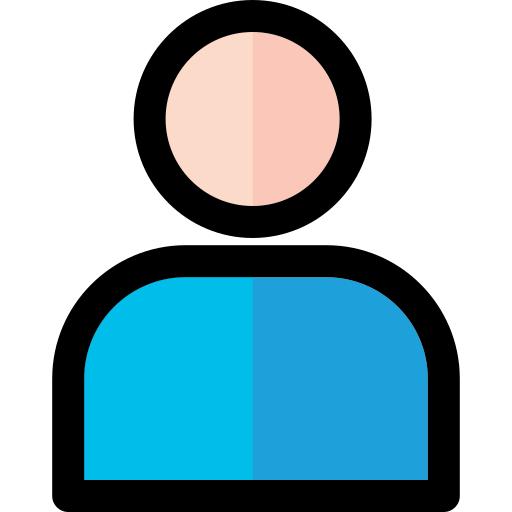
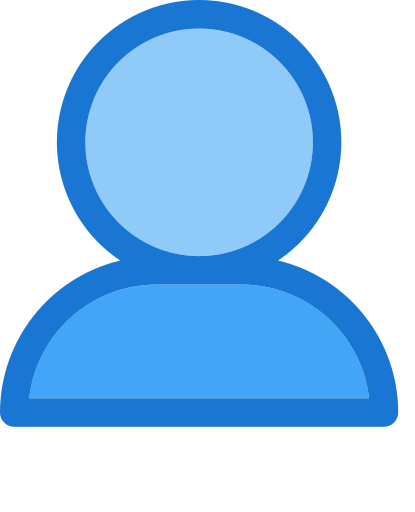
details

diff --git a/src/components/Lists/ListUsers.vue b/src/components/Lists/ListUsers.vue
@@ -9,13 +9,12 @@
             placeholder="Buscar por nombre o cédula" />
         </div>
 
-        <div class="row">
           <div class="col-md-12">
             <button @click="addUser" class="btn btn-success">
               Agregar usuario
             </button>
           </div>
-        </div>
+        
 
         <div class="table-responsive">
           <table class="table table-striped">
@@ -41,9 +40,6 @@
                 </td>
                 <td>{{ user.email }}</td>
                 <td>
-                  <button @click="viewUser(user)" class="btn btn-primary">
-                    Ver usuario
-                  </button>
                   <button @click="deactivateUser(user)" class="btn btn-danger">
                     {{ user.status === "active" ? "Desactivar" : "Activar" }}
                   </button>
@@ -100,10 +96,6 @@ export default {
       // Lógica para agregar un nuevo usuario
       this.$router.push({ name: "AddUser" });
     },
-    viewUser(/*user*/) {
-      // Lógica para ver los detalles de un usuario
-      // ...
-    },
     deactivateUser(user) {
       // Lógica para desactivar un usuario
       if (user.status === "active") {
@@ -125,7 +117,7 @@ export default {
               })
               .then((response) => {
                 toast.success(`Usuario desactivado correctamente`, {
-                  position: 'bottom-right',
+                  position: 'top-right',
                   timeout: 2000,
                   closeOnClick: true,
                   pauseOnFocusLoss: true,
@@ -164,7 +156,7 @@ export default {
               })
               .then((response) => {
                 toast.success(`Usuario activado correctamente`, {
-                  position: 'bottom-right',
+                  position: 'top-right',
                   timeout: 2000,
                   closeOnClick: true,
                   pauseOnFocusLoss: true,
@@ -188,7 +180,7 @@ export default {
     },
   },
   mounted() {
-    this.$state.navbarTitle = "Lista de Usuarios";
+    this.$state.navbarTitle = "Lista de usuarios";
     // Obtener todos los usuarios desde la API
     axios
       .get(API_URL + "/users")

diff --git a/src/components/Home/Home-component.vue b/src/components/Home/Home-component.vue
@@ -52,9 +52,9 @@
       <div class="col-lg-12">
         <div class="card">
           <div class="card-body">
-            <h4 class="card-title text-primary">Lista de los últimos movimientos realizados en el inventario</h4>
+            <h4 class="card-title text-primary text-center">Últimos movimientos realizados en el inventario</h4>
             <div class="table-responsive">
-              <table class="table table-bordered">
+              <table class="table table-bordered kpi-table">
                 <thead>
                   <tr>
                     <th>Fecha de movimiento</th>
@@ -200,9 +200,14 @@ export default {
     },
     hacerEntrada(index) {
       // Lógica para realizar una entrada en el producto seleccionado
-      // Puedes implementar aquí tu código para hacer las modificaciones necesarias en el stock del producto
-      // Por ejemplo, puedes usar una llamada a una API o actualizar los datos localmente
-      console.log('Haciendo entrada para el producto con índice:', index);
+      // Implementar aquí tu código para hacer las modificaciones necesarias en el stock del producto
+      toast.success(`Haciendo entrada para el producto con índice: ${index}`, {
+        position: 'top-right',
+        timeout: 2500,
+        closeOnClick: true,
+        pauseOnFocusLoss: true,
+        pauseOnHover: true,
+      });
     },
     sortMovements() {
       return [...this.movementsData].sort(
@@ -215,7 +220,7 @@ export default {
 <style scoped>
 .container-fluid {
   margin-top: 20px;
-  margin-left: 5px;
+  margin-left: auto;
 }
 .centered-div {
   display: flex;

diff --git a/src/components/Lists/InventoryTable.vue b/src/components/Lists/InventoryTable.vue
@@ -9,7 +9,7 @@
     <div class="row">
       <div id="contentDiv" class="col-lg-10 col-md-12">
         <div class="table-container">
-          <h1 class="filter-title text-primary">Filtros</h1>
+          <h2 class="filter-title text-primary">Filtros</h2>
           <div class="filters-container row">
             <div class="col-md-2">
               <div class="form-group">
@@ -98,7 +98,7 @@
                 </select>
               </div>
             </div>
-            <div class="col-md-auto">
+            <div class="col-md-2">
               <div class="form-group">
                 <label for="warehouse">Bodega:</label>
                 <select
@@ -120,7 +120,7 @@
           </div>
 
           <div class="table-responsive">
-            <table class="table">
+            <table class="table table-bordered">
               <thead>
                 <tr>
                   <th>Código</th>
@@ -277,6 +277,7 @@ export default {
   width: 100%;
   border-collapse: collapse;
 }
+
 
 .table th,
 .table td {

diff --git a/src/components/GeneralLayout/UserProfile.vue b/src/components/GeneralLayout/UserProfile.vue
@@ -7,7 +7,7 @@
         <div class="card" style="border-radius: 15px">
           <div class="card-body text-center">
             <div class="logo-container">
-              <img src="../../assets/informacion.png" alt="Logo" class="logo">
+              <img src="../../assets/usuario.png" alt="Logo" class="logo">
             </div>
             <h4 class="mb-3">Hola de nuevo, {{ user.name }} </h4>
             <form @submit.prevent="changePassword">

diff --git a/src/components/Transactional/Inventory-Output.vue b/src/components/Transactional/Inventory-Output.vue
@@ -342,7 +342,7 @@ export default {
 
           });
       } else {
-        toast.error(`Debe llenar todos los campos en al menos una fila antes de guardar la transacción`, {
+        toast.info(`Debe llenar todos los campos en al menos una fila antes de guardar la transacción`, {
           position: 'top-right',
           timeout: 2000,
           closeOnClick: true,

diff --git a/src/components/Transactional/Inventory-Transfer.vue b/src/components/Transactional/Inventory-Transfer.vue
@@ -157,7 +157,7 @@ export default {
     };
   },
   mounted() {
-    this.$state.navbarTitle = "Salidas de inventario";
+    this.$state.navbarTitle = "Transferencias de inventario";
     document.addEventListener("keydown", this.handleKeyDown);
     axios
       .get(`${API_URL}/warehouses/`)

diff --git a/src/components/Lists/ListTransaction.vue b/src/components/Lists/ListTransaction.vue
@@ -186,6 +186,7 @@ export default {
   },
   mounted() {
     this.fetchTransactions();
+    this.$state.navbarTitle = "Registro de movimientos";
   },
 };
 </script>

diff --git a/src/components/Lists/ListArticle.vue b/src/components/Lists/ListArticle.vue
@@ -217,6 +217,10 @@ export default {
   color: #007bff;
 }
 
+.btn {
+  margin: 3px;
+}
+
 .table {
   margin-top: 20px;
 }
